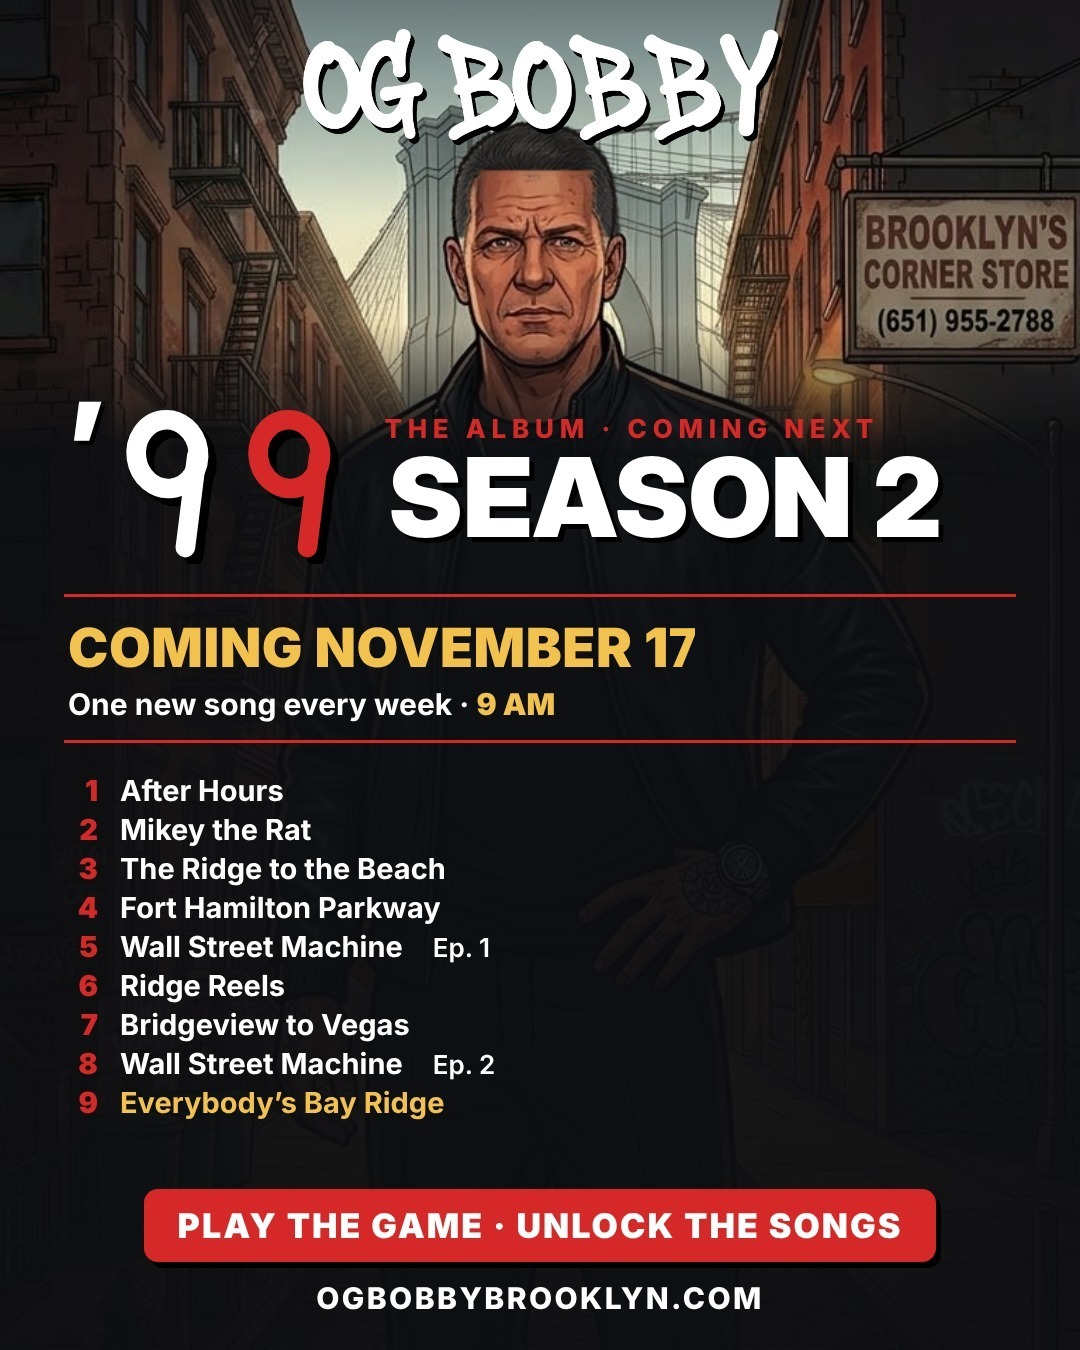
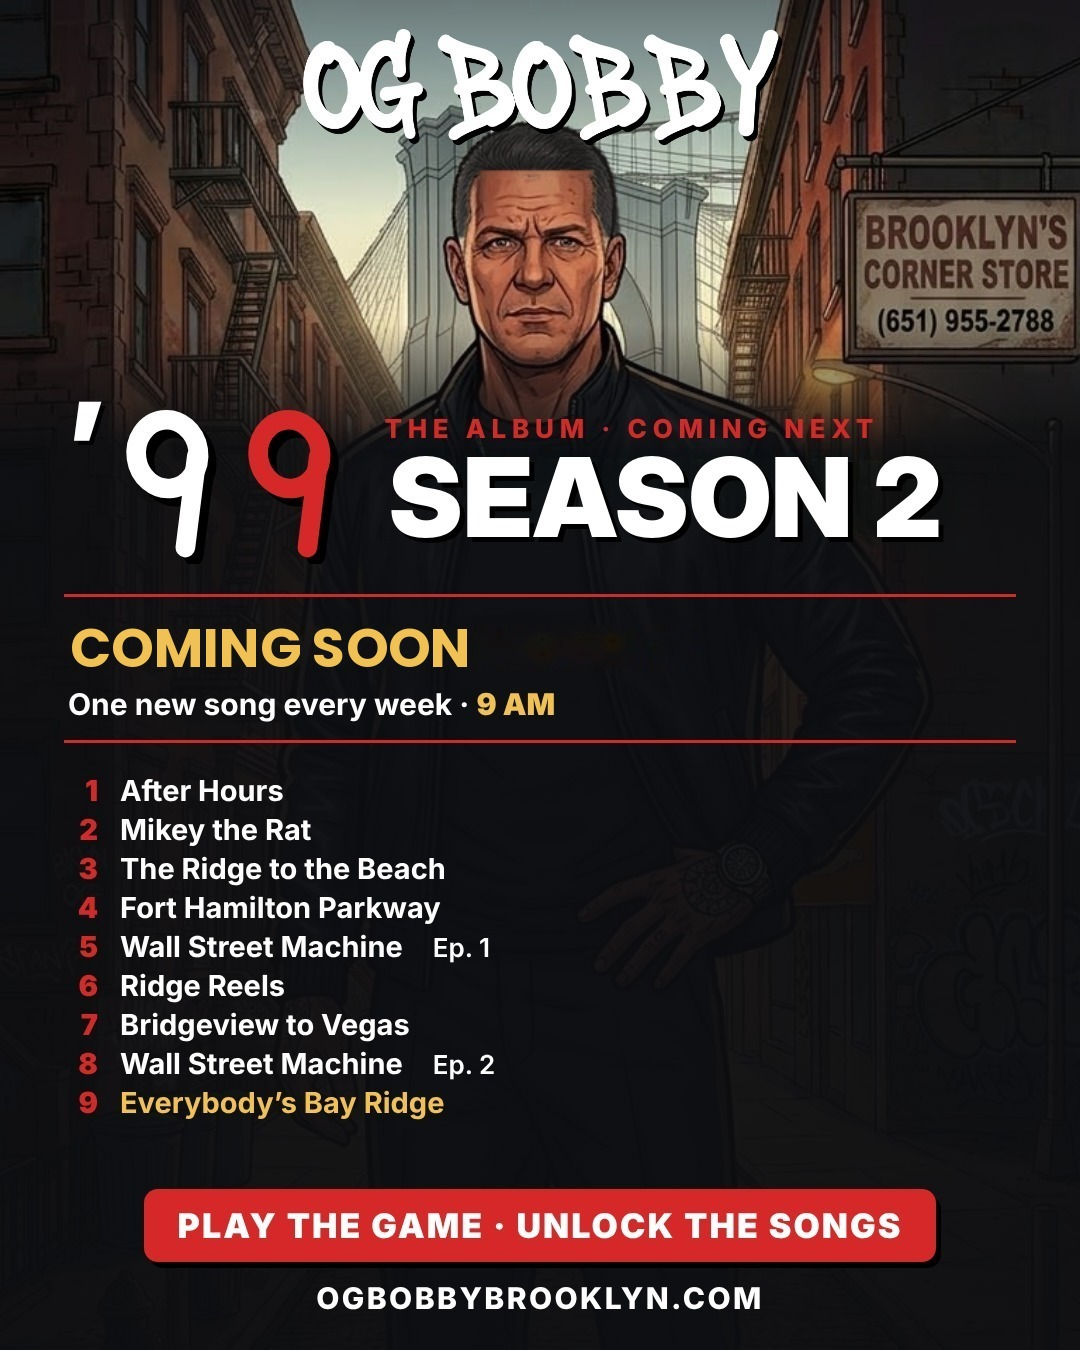
Season 2: hide release date everywhere public - COMING SOON on game board, countdown, Season 2 promo page and images; drop date moved to Dec 1
Claude-Session: https://claude.ai/code/session_01EMWr3VAoC1QTd1u3w365XU

Changed region(s): [[0.0611, 0.4667, 0.6417, 0.4978]]

diff --git a/vol-2/index.html b/vol-2/index.html
@@ -3,15 +3,15 @@
 <meta charset="utf-8">
 <meta name="viewport" content="width=device-width, initial-scale=1">
 <title>OG Made · Season 2</title>
-<meta name="description" content="OG Made '99, Season 2. Coming November 17th, one new episode every week at 9 AM. Play the game and unlock the songs.">
+<meta name="description" content="OG Made '99, Season 2. Coming soon, one new episode every week at 9 AM. Play the game and unlock the songs.">
 <meta property="og:type" content="music.album">
 <meta property="og:title" content="OG Made · Season 2">
-<meta property="og:description" content="Coming November 17th. One new episode every week at 9 AM. Play the game and unlock the songs.">
-<meta property="og:image" content="https://ogbobbybrooklyn.com/vol-2/vol2-feed.jpg?v=4">
+<meta property="og:description" content="Coming soon. One new episode every week at 9 AM. Play the game and unlock the songs.">
+<meta property="og:image" content="https://ogbobbybrooklyn.com/vol-2/vol2-feed.jpg?v=5">
 <meta property="og:url" content="https://ogbobbybrooklyn.com/vol-2/">
 <meta name="twitter:card" content="summary_large_image">
 <meta name="twitter:title" content="OG Made · Season 2">
-<meta name="twitter:image" content="https://ogbobbybrooklyn.com/vol-2/vol2-feed.jpg?v=4">
+<meta name="twitter:image" content="https://ogbobbybrooklyn.com/vol-2/vol2-feed.jpg?v=5">
 <link rel="icon" href="../icon-game.png?v=2">
 <link rel="apple-touch-icon" href="../icon-game.png?v=2">
 <style>
@@ -22,6 +22,6 @@ img { width: 100%; max-width: 540px; height: auto; display: block; border-radius
 a { display: block; width: 100%; max-width: 540px; text-align: center; text-decoration: none; font-weight: 800; letter-spacing: .06em; color: #fff; background: #d62828; padding: 16px; border-radius: 12px; }
 </style>
 </head><body>
-<img src="vol2-feed.jpg?v=4" alt="OG Bobby OG Made '99, Season 2. Coming November 17th, one new episode every week at 9 AM.">
+<img src="vol2-feed.jpg?v=5" alt="OG Bobby OG Made '99, Season 2. Coming soon, one new episode every week at 9 AM.">
 <a href="https://ogbobbybrooklyn.com/">PLAY THE GAME</a>
 </body></html>

diff --git a/index.html b/index.html
@@ -2642,8 +2642,8 @@ html, body, body.practice { background: #fff !important; }
 <script>
 (function () {
   const v2 = document.querySelector(".mv.v2"); if (!v2 || v2.querySelector(".v2-drop")) return;
-  const d = document.createElement("div"); d.className = "v2-drop"; d.setAttribute("aria-label", "Season 2 dropping November 17th, one single a week");
-  d.innerHTML = "<b>DROPPING NOV. 17</b><i>ONE SINGLE A WEEK</i>";
+  const d = document.createElement("div"); d.className = "v2-drop"; d.setAttribute("aria-label", "Season 2 coming soon, one single a week");
+  d.innerHTML = "<b>COMING SOON</b><i>ONE SINGLE A WEEK</i>";
   v2.append(d);
 })();
 </script>
@@ -3430,8 +3430,8 @@ html, body, body.practice { background: #fff !important; }
   }
 
   /* ===================== 2 + 3. SEASON 2 COUNTDOWN + REMIND ME ===================== */
-  // first single Tuesday Nov 17, 2026 (9 AM New York time), then one a week for 9 weeks
-  const DROP0 = Date.parse("2026-11-17T09:00:00-05:00"), WEEK = 7 * 864e5;
+  // first single Tuesday Dec 1, 2026 (kept secret on the page: shows COMING SOON until the first drop) (9 AM New York time), then one a week for 9 weeks
+  const DROP0 = Date.parse("2026-12-01T09:00:00-05:00"), WEEK = 7 * 864e5;
   function nextDrop(now) {
     for (let k = 0; k < 9; k++) { const t = DROP0 + k * WEEK; if (t > now) return { t, k }; }
     return null;
@@ -3439,6 +3439,7 @@ html, body, body.practice { background: #fff !important; }
   function cdText() {
     const now = Date.now(), nd = nextDrop(now);
     if (!nd) return { k: "SEASON 2", n: "ALL 9 SINGLES ARE OUT" };
+    if (nd.k === 0) return { k: "SEASON 2", n: "COMING SOON" };
     let s = Math.max(0, Math.floor((nd.t - now) / 1000));
     const d = Math.floor(s / 86400); s -= d * 86400; const h = Math.floor(s / 3600); s -= h * 3600; const m = Math.floor(s / 60);
     const n = d > 0 ? d + (d === 1 ? " DAY " : " DAYS ") + h + " HRS" : h > 0 ? h + " HRS " + m + " MIN" : m + " MIN";

diff --git a/lab-3f9e972d/index.html b/lab-3f9e972d/index.html
@@ -2621,8 +2621,8 @@ html, body, body.practice { background: #fff !important; }
 <script>
 (function () {
   const v2 = document.querySelector(".mv.v2"); if (!v2 || v2.querySelector(".v2-drop")) return;
-  const d = document.createElement("div"); d.className = "v2-drop"; d.setAttribute("aria-label", "Season 2 dropping November 17th, one single a week");
-  d.innerHTML = "<b>DROPPING NOV. 17</b><i>ONE SINGLE A WEEK</i>";
+  const d = document.createElement("div"); d.className = "v2-drop"; d.setAttribute("aria-label", "Season 2 coming soon, one single a week");
+  d.innerHTML = "<b>COMING SOON</b><i>ONE SINGLE A WEEK</i>";
   v2.append(d);
 })();
 </script>
@@ -3391,8 +3391,8 @@ html, body, body.practice { background: #fff !important; }
   }
 
   /* ===================== 2 + 3. SEASON 2 COUNTDOWN + REMIND ME ===================== */
-  // first single Tuesday Nov 17, 2026 (9 AM New York time), then one a week for 9 weeks
-  const DROP0 = Date.parse("2026-11-17T09:00:00-05:00"), WEEK = 7 * 864e5;
+  // first single Tuesday Dec 1, 2026 (kept secret on the page: shows COMING SOON until the first drop) (9 AM New York time), then one a week for 9 weeks
+  const DROP0 = Date.parse("2026-12-01T09:00:00-05:00"), WEEK = 7 * 864e5;
   function nextDrop(now) {
     for (let k = 0; k < 9; k++) { const t = DROP0 + k * WEEK; if (t > now) return { t, k }; }
     return null;
@@ -3400,6 +3400,7 @@ html, body, body.practice { background: #fff !important; }
   function cdText() {
     const now = Date.now(), nd = nextDrop(now);
     if (!nd) return { k: "SEASON 2", n: "ALL 9 SINGLES ARE OUT" };
+    if (nd.k === 0) return { k: "SEASON 2", n: "COMING SOON" };
     let s = Math.max(0, Math.floor((nd.t - now) / 1000));
     const d = Math.floor(s / 86400); s -= d * 86400; const h = Math.floor(s / 3600); s -= h * 3600; const m = Math.floor(s / 60);
     const n = d > 0 ? d + (d === 1 ? " DAY " : " DAYS ") + h + " HRS" : h > 0 ? h + " HRS " + m + " MIN" : m + " MIN";
